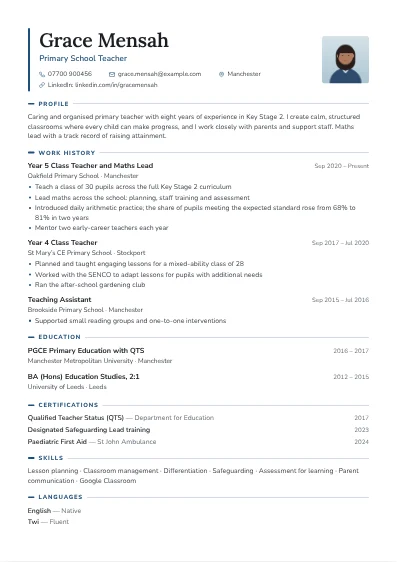
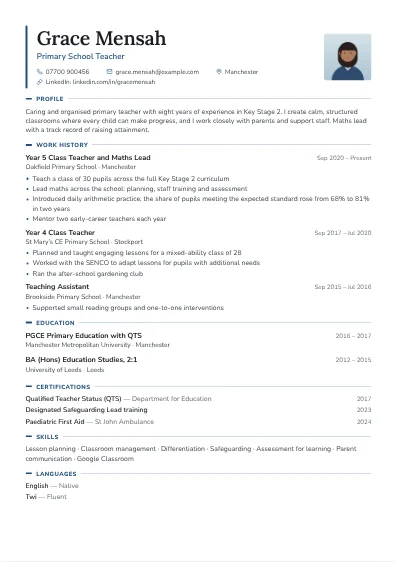
Designs: picking a design applies its own typeface; picker shows your own CV
Owner report: thumbnails looked richer than the applied design. The thumbnails used the sample
CV's font (serif headings), while picking a design kept the CV's own font (plain sans), so names
and headings looked plainer. Every design now has its own typeface — the one its thumbnail
shows — and picking it applies it (still changeable under Font). The Design-tab picker now
renders each card with the person's own CV (lazily, over the static thumbnail), as spec §7.7
asks, so what you see is what you get. Thumbnails regenerated through the same code path.

Claude-Session: https://claude.ai/code/session_01L77Rmev6oLepa9gLETUpxP

diff --git a/src/features/editor/design-panel.tsx b/src/features/editor/design-panel.tsx
@@ -2,7 +2,7 @@
 
 import { Check, Crown } from 'lucide-react';
 import { isPremiumDesign, useEntitlements } from '@/features/account/entitlements';
-import { useId, useState } from 'react';
+import { useId, useMemo, useState } from 'react';
 import { SelectableCard } from '@/components/ui/card';
 import { StyleAssist } from '@/features/ai/style-assist';
 import { CheckboxField } from './fields';
@@ -25,7 +25,7 @@ import {
 import type { DocumentEditor } from './use-document-editor';
 import { DesignStudio } from './design-studio';
 import { Designer } from './designer';
-import type { PreviewStatus } from '@/features/preview/document-preview';
+import { DocumentPreview, type PreviewStatus } from '@/features/preview/document-preview';
 
 const FONT_DESCRIPTIONS: Record<(typeof FONT_PAIR_IDS)[number], string> = {
   modern: 'Clean and contemporary',
@@ -79,6 +79,24 @@ export function DesignPanel({
     (t) => t.id === current || !ent || ent.designs.find((x) => x.id === t.id)?.enabled !== false,
   );
   const shown = family === 'all' ? available : available.filter((t) => t.family === family);
+  // The person's CV as the picker previews show it: rebuilt only when the words or their own
+  // colour, font, spacing or paper change — not when they pick a design.
+  const mineKey = JSON.stringify([
+    doc.basics,
+    doc.sections,
+    d.accent,
+    d.fontPair,
+    d.density,
+    d.pageSize,
+  ]);
+  // eslint-disable-next-line react-hooks/exhaustive-deps -- rebuilt by content key only
+  const mine = useMemo(() => doc, [mineKey]);
+  // One preview document per design, kept while the content is the same (stable identities, so
+  // the previews don't rebuild on every render).
+  const inDesign = useMemo(
+    () => new Map(DESIGNS.map((t) => [t.id, ops.useDesign(mine, t.id)] as const)),
+    [mine],
+  );
   const customLow = contrast(d.accent, '#ffffff') < 4.5;
 
   return (
@@ -134,14 +152,24 @@ export function DesignPanel({
                 )}
               >
                 <span className="bg-surface shadow-1 ring-line relative block overflow-hidden rounded-[3px] ring-1">
+                  {/* Static thumbnail at once; the person's own CV in this design renders over it
+                      when the card scrolls into view, so the picker shows what they will get. */}
                   {/* eslint-disable-next-line @next/next/no-img-element -- static thumbnails */}
                   <img
                     src={`/templates/${t.id}.webp`}
                     alt=""
                     width={397}
                     height={562}
-                    className="block h-auto w-full"
+                    className="absolute inset-0 h-full w-full object-cover object-top"
                     loading="lazy"
+                  />
+                  <DocumentPreview
+                    doc={inDesign.get(t.id)!}
+                    firstPageOnly
+                    decorative
+                    lazy
+                    debounceMs={300}
+                    title={`Your CV in the ${t.name} design`}
                   />
                   {selected && (
                     <span className="bg-primary text-on-primary shadow-1 absolute top-2 right-2 inline-flex size-6 items-center justify-center rounded-full">

diff --git a/src/modules/design/designs.ts b/src/modules/design/designs.ts
@@ -44,8 +44,8 @@ export type DesignMeta = {
   photo: boolean;
   /** Kind of work this design suits, 0–1 (missing = neutral). */
   fit: Partial<Record<PresetId, number>>;
-  /** Font pair the design is shown with (the person can change it). */
-  fontPair?: FontPairId;
+  /** Font pair the design is shown and applied with (the person can change it afterwards). */
+  fontPair: FontPairId;
 };
 
 const SIDE = ['skills', 'languages', 'certifications', 'licences', 'awards'] as const;
@@ -305,7 +305,10 @@ const M = (
   columns: o.columns ?? 1,
   photo: o.photo ?? true,
   fit: o.fit ?? {},
-  ...(o.fontPair ? { fontPair: o.fontPair } : {}),
+  // Every design has its own typeface — the one its thumbnail shows — and picking the design
+  // applies it (the person can change it afterwards). Classic designs default to the elegant
+  // serif pair, the others to the friendly pair with serif headings.
+  fontPair: o.fontPair ?? (family === 'classic' ? 'executive' : 'humanist'),
 });
 
 /** Every catalogue design, in gallery order (by family, safest first). */

diff --git a/scripts/design-review.tsx b/scripts/design-review.tsx
@@ -23,7 +23,10 @@ const browser = await puppeteer.launch({
 for (const id of ids) {
   const meta = DESIGNS.find((d) => d.id === id)!;
   for (const f of fixtures) {
-    let base: ResumeDocument = FIXTURES[f];
+    let base: ResumeDocument =
+      (f as string) === 'owner'
+        ? JSON.parse(fs.readFileSync('/tmp/owner/doc.json', 'utf8'))
+        : FIXTURES[f];
     const photo = PHOTO_FOR[f];
     if (meta.photo && photo) base = withPhoto(base, photo);
     const doc = ops.useDesign(base, meta.id);

diff --git a/e2e/studio.spec.ts b/e2e/studio.spec.ts
@@ -22,7 +22,8 @@ async function on(request: APIRequestContext, value = true) {
 /** data-template of the visible preview document. */
 async function previewTemplate(page: Page) {
   return page
-    .frameLocator('iframe[data-active]')
+    // The main preview (picker cards and candidates have previews of their own).
+    .frameLocator('iframe[data-active][title^="Preview of your CV"]')
     .first()
     .locator('html[data-cv-ready]')
     .getAttribute('data-template', { timeout: 10_000 })
